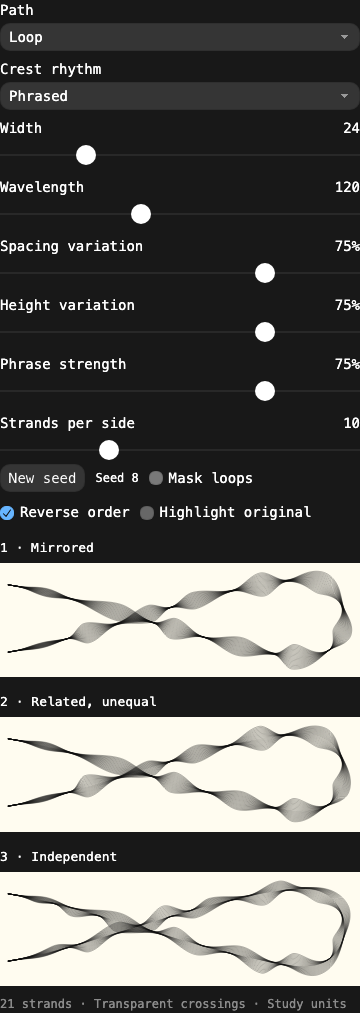
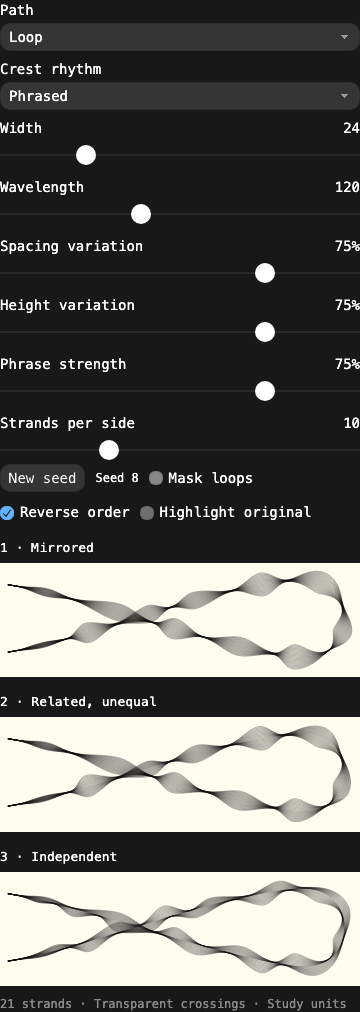
fix: blend abrupt ribbon crest transitions

diff --git a/docs/reviews/open-path-ribbon-2026-09-08/geometry.js b/docs/reviews/open-path-ribbon-2026-09-08/geometry.js
@@ -227,16 +227,37 @@
       s+=length;
       knots.push({s:i===events.length-1?total:s,v:i===events.length-1?0:e.trough});
     }
-    return profileFromKnots(knots);
+    return profileFromKnots(knots, Math.min(wave*.055,total*.04));
   }
 
-  function profileFromKnots(knots) {
-    return Object.assign(function(at) {
-      let lo=0, hi=knots.length-1;
+  function profileFromKnots(knots, radius=0) {
+    // Average the width profile over a small arc-length neighbourhood. Exact
+    // cubic integration gives continuous curvature across the old knot seams.
+    // Odd reflection at the ends keeps the shared endpoint width exactly zero.
+    const areas=[0];
+    for(let i=1;i<knots.length;i++) {
+      const a=knots[i-1],b=knots[i];
+      areas.push(areas[i-1]+(b.s-a.s)*(a.v+b.v)/2);
+    }
+    const total=knots.at(-1).s;
+    function interval(at) {
+      let lo=0,hi=knots.length-1;
       while(hi-lo>1) {const mid=(lo+hi)>>1;if(knots[mid].s<at)lo=mid;else hi=mid;}
-      const a=knots[lo], b=knots[hi];
+      return lo;
+    }
+    function integral(at) {
+      if(at<0)at=-at;
+      if(at>total)at=2*total-at;
+      const i=interval(at),a=knots[i],b=knots[i+1],len=b.s-a.s;
+      const t=clamp((at-a.s)/(len||1),0,1);
+      return areas[i]+len*(a.v*t+(b.v-a.v)*(t*t*t-.5*t*t*t*t));
+    }
+    return Object.assign(function(at) {
+      at=clamp(at,0,total);
+      if(radius>0)return clamp((integral(at+radius)-integral(at-radius))/(2*radius),0,1);
+      const i=interval(at),a=knots[i],b=knots[i+1];
       return mix(a.v,b.v,smooth(clamp((at-a.s)/(b.s-a.s||1),0,1)));
-    },{knots});
+    },{knots,smoothingRadius:radius});
   }
 
   function relatedCrests(left, total, opts) {
@@ -251,7 +272,7 @@
       return {s:k.s+(random()-.5)*.55*spacing*room,
         v:clamp(k.v*(1+(random()-.5)*.55*height),.035,1)};
     });
-    return profileFromKnots(knots);
+    return profileFromKnots(knots,left.smoothingRadius);
   }
 
   function taperAt(s, total, taper) {

diff --git a/docs/reviews/open-path-ribbon-2026-09-08/CREST-STATUS.md b/docs/reviews/open-path-ribbon-2026-09-08/CREST-STATUS.md
@@ -64,3 +64,19 @@ units, and peak heights from .42–.65 to .24–.90. Width remains an outer boun
 second-eye report describe the preceding range, not this follow-up. All 24 crest
 configurations and browser checks passed again; the lead inspected the maximum
 render. Ready for Ian to check.
+
+## Softer steepness changes
+
+Ian requested blending the abrupt shoulders visible in the attached screenshot.
+Phrased profiles now use an exact moving average of the cubic profile, with radius
+5.5% of wavelength (capped at 4% of total length). Integrating the cubics makes
+curvature continuous at the former knot seams. Odd endpoint reflection preserves
+zero endpoint widths. It rounds down narrow peaks slightly and lifts nearby
+troughs; knot positions/heights remain generation targets, not exact samples of
+the filtered outline. Related sides use the same radius. Original mode and corner
+geometry are unchanged. This smoothing also applies to the lower variation range.
+
+`crest-smoothing-check.cjs` passed reduced maximum slopes, continuous curvature
+at knot seams, endpoints and width bounds across four maximum-variation seeds.
+The 24 crest configurations and browser suite passed again. The lead inspected
+the regenerated `crest-maximum.png`; visual acceptance remains with Ian.
